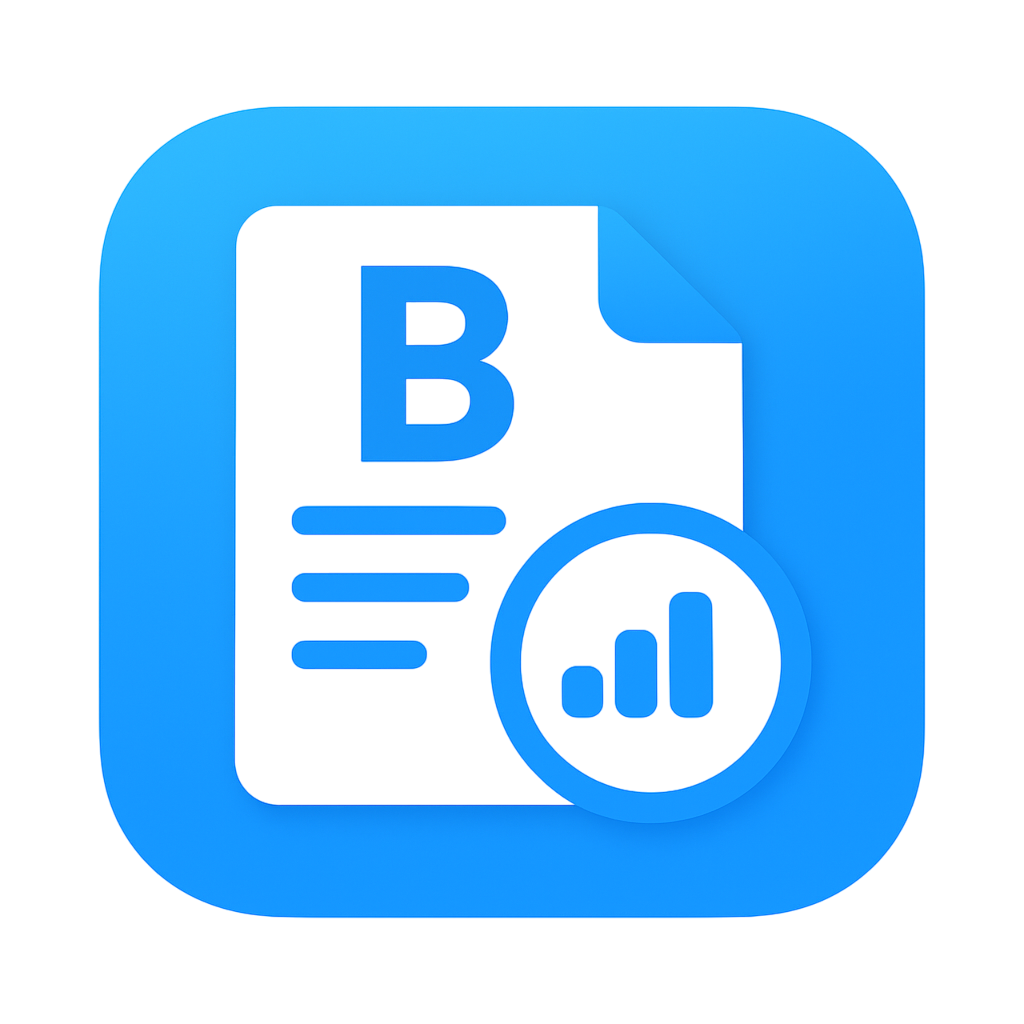
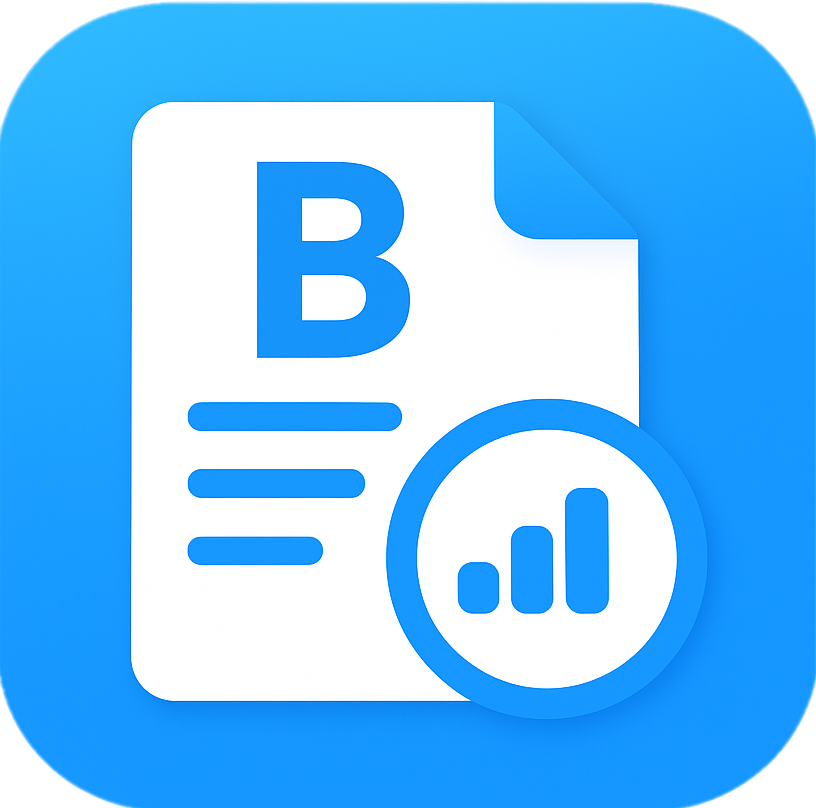
웹앱 아이콘 변경

diff --git a/002 Code/frontend/vite.config.js b/002 Code/frontend/vite.config.js
@@ -1,8 +1,41 @@
 import { defineConfig } from 'vite'
 import vue from '@vitejs/plugin-vue'
+import { VitePWA } from 'vite-plugin-pwa'
 
 export default defineConfig({
-  plugins: [vue()],
+  plugins: [
+    vue(),
+    VitePWA({
+      registerType: 'autoUpdate',
+      includeAssets: ['BudgetlyApp.png'],
+      manifest: {
+        name: 'Budgetly - 예산 관리',
+        short_name: 'Budgetly',
+        description: '효율적인 예산 관리 애플리케이션',
+        theme_color: '#3e56f6',
+        background_color: '#ffffff',
+        display: 'standalone',
+        icons: [
+          {
+            src: '/BudgetlyApp.png',
+            sizes: '192x192',
+            type: 'image/png',
+            purpose: 'any maskable'
+          },
+          {
+            src: '/BudgetlyApp.png',
+            sizes: '512x512',
+            type: 'image/png',
+            purpose: 'any maskable'
+          }
+        ]
+      },
+      workbox: {
+        cleanupOutdatedCaches: true,
+        skipWaiting: true
+      }
+    })
+  ],
   server: {
     port: 3000,
     open: true,
